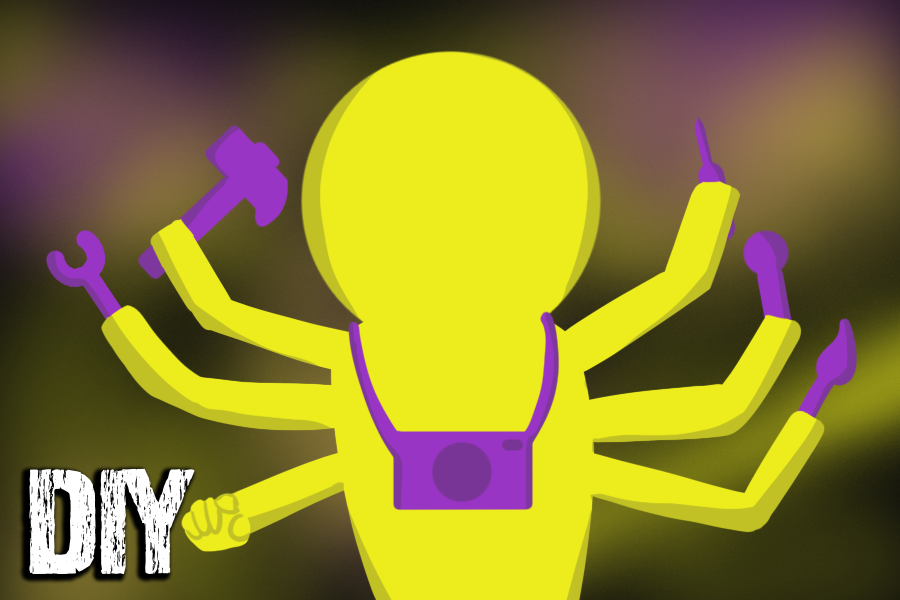
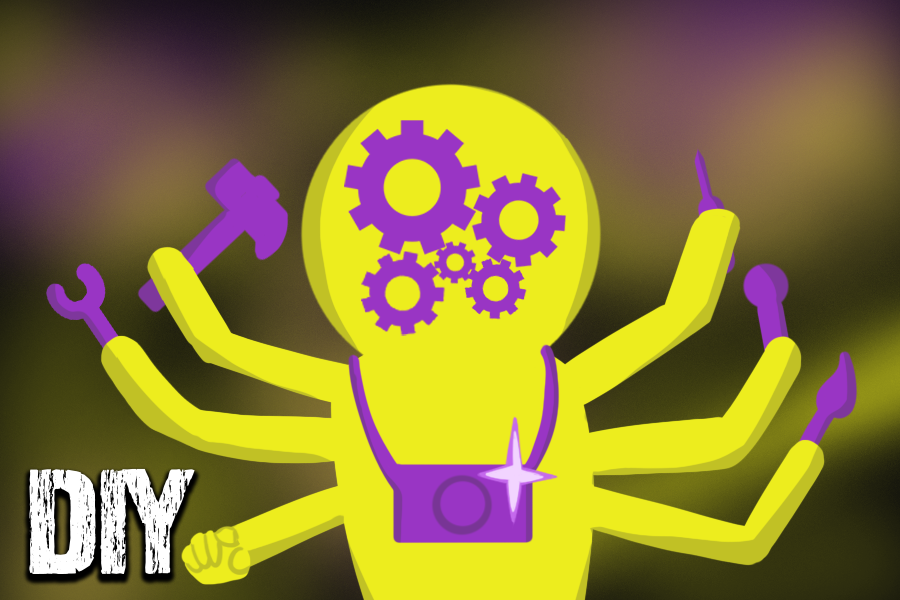
version 4.2.1
Updated pop-up: removed 'ok' button too force people to flip their phone

added picture for DJ mixen, and updated DIY picture on the home page

diff --git a/scriptes/CSS/hoofdpaginaGallery.css b/scriptes/CSS/hoofdpaginaGallery.css
@@ -36,21 +36,11 @@
 #popupImg{
     position: relative;
     width: 100%;
+    top: 80px;
     height: 300px;
     background-image: url(../../media/fotos/gallery/flipPhone.png);
     background-size: cover;
 
-}
-
-#confirm{
-    position: relative;
-    display: block;
-    margin-left: auto;
-    margin-right: auto;
-    margin-top: 20%;
-    background: none;
-    width: 70px;
-    border-radius: 20px;
 }
 
 div#center { display: none; }

diff --git a/index.php b/index.php
@@ -32,7 +32,6 @@
                 <div id='popupImg'>
 
                 </div>
-                <button id='confirm'>OK</button>
             </div>
         </div>
 <!-- navbar -->
